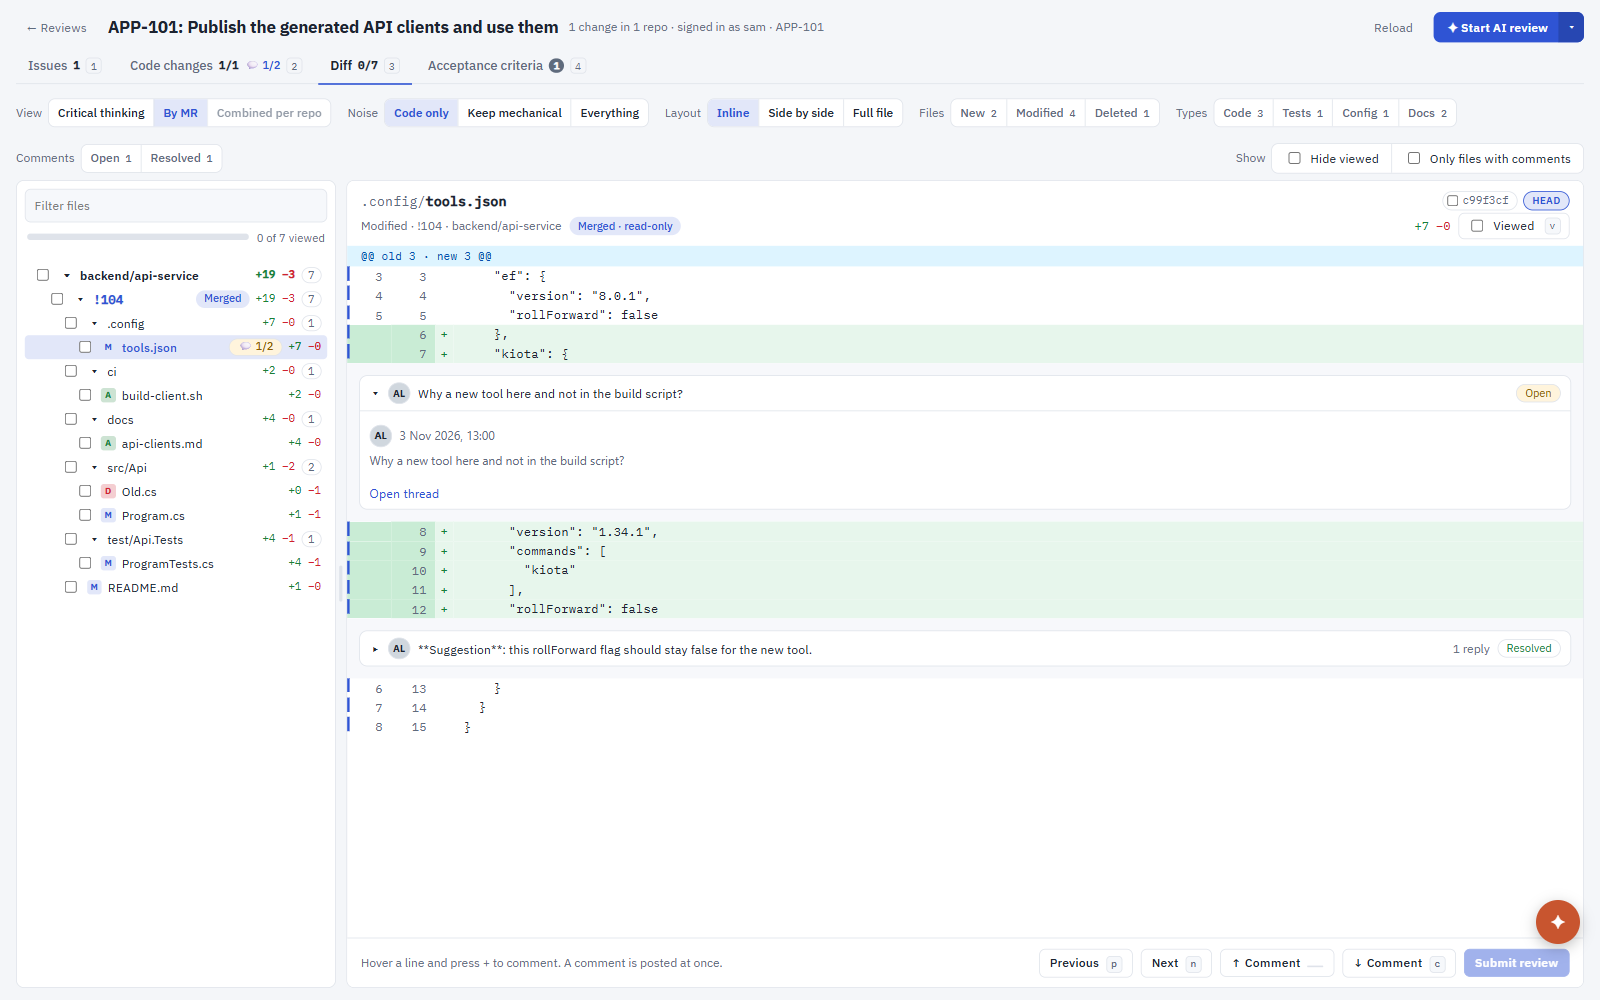
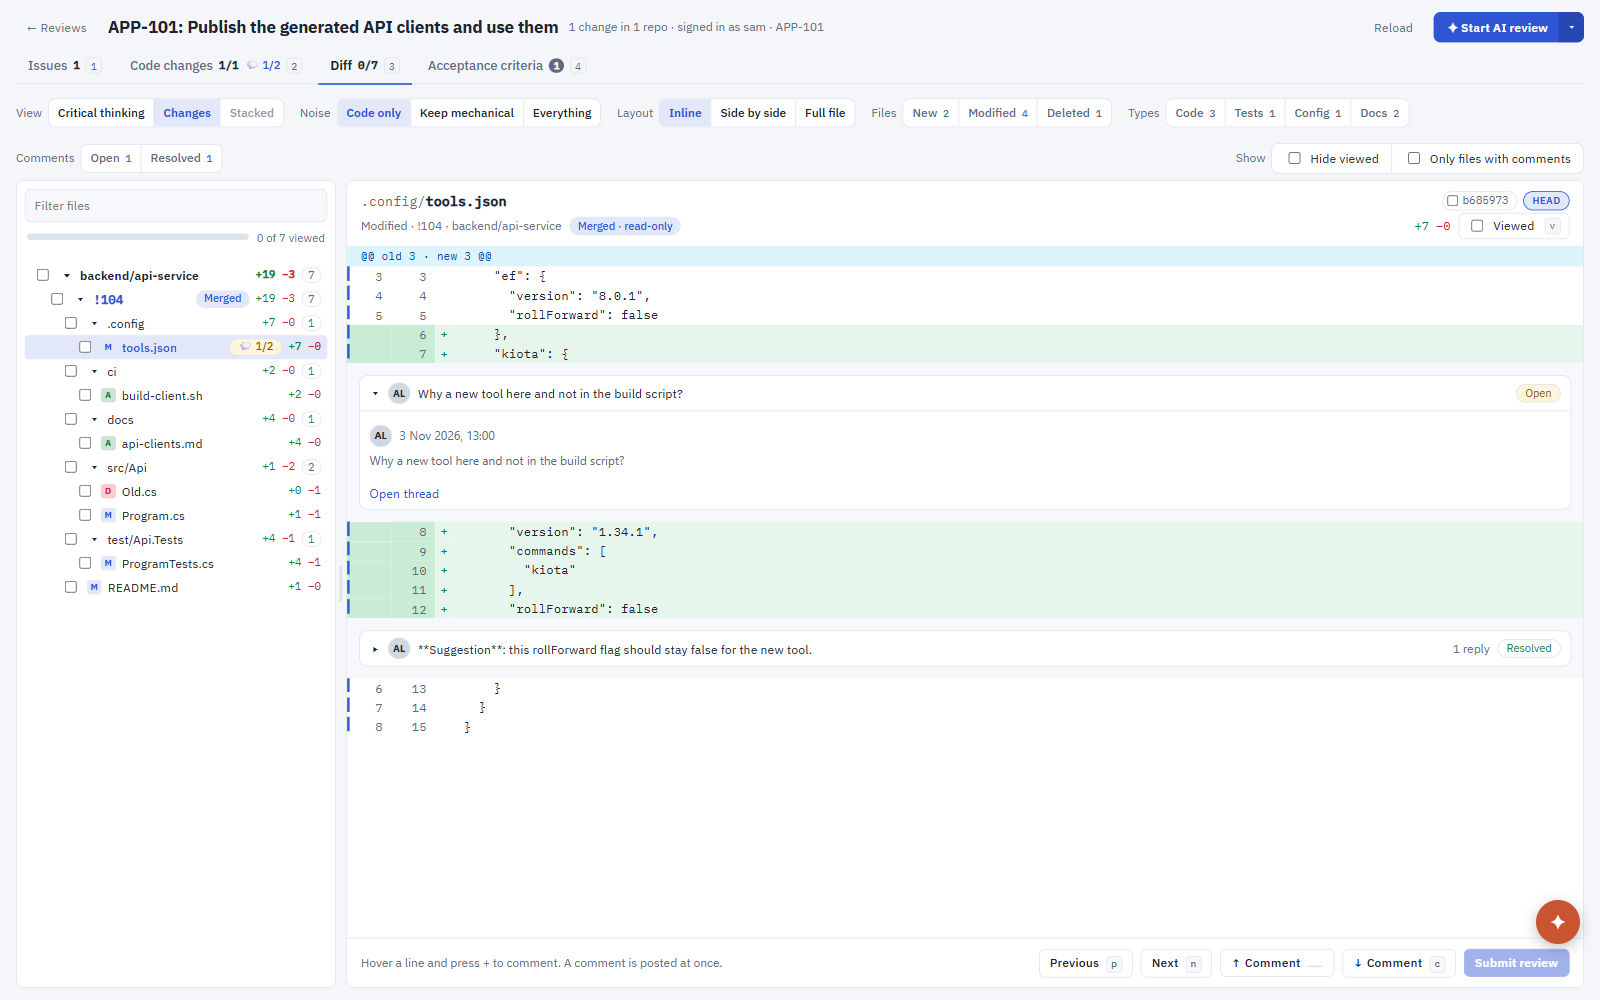
feat: rename the Diff views to Linear and Stacked
- By MR is now Linear, and Combined per repo is now Stacked
- retake the screenshots

Claude-Session: https://claude.ai/code/session_01Lfs47fBhmnj7HXEQgeaan6

Changed region(s): [[0.0938, 0.093, 0.9062, 0.124], [0.9062, 0.186, 0.9375, 0.217]]

diff --git a/src/renderer/features/DiffTab.tsx b/src/renderer/features/DiffTab.tsx
@@ -50,9 +50,9 @@ interface Entry {
   groupTip: string
   file: FileObject
   scope: string
-  /** The change that owns the file in By MR. Null in Combined, where each line has its own target. */
+  /** The change that owns the file in Linear. Null in Stacked, where each line has its own target. */
   mrKey: string | null
-  /** The changes of the part, in Combined. */
+  /** The changes of the part, in Stacked. */
   partMrs: string[]
   /** The change and the commit whose code the line chat reads. */
   chatMr: string
@@ -122,7 +122,7 @@ function entriesOf(result: BuildResult, view: ViewName): Entry[] {
       groupLabel: `Part ${n} · ${label}`,
       groupTip: p.reason ?? 'The first part',
       file,
-      scope: `combined · ${p.repo} · ${nums.join(', ')}`,
+      scope: `stacked · ${p.repo} · ${nums.join(', ')}`,
       mrKey: null,
       partMrs: p.mrs,
       chatMr: p.mrs[0],
@@ -253,7 +253,7 @@ export function DiffTab(props: { visible?: (mrKey: string) => boolean }): React.
   useEffect(() => save('codediff:view', view), [view])
   useEffect(() => save('codediff:noise', level), [level])
 
-  // The flow view shows no tree. Leaving it returns to the By MR view, and a flow that went away does the same.
+  // The flow view shows no tree. Leaving it returns to the Linear view, and a flow that went away does the same.
   useEffect(() => {
     if (view === 'flow' && !r.flow.flow) setView('mr')
   }, [view, r.flow.flow])
@@ -326,7 +326,7 @@ export function DiffTab(props: { visible?: (mrKey: string) => boolean }): React.
     // eslint-disable-next-line react-hooks/exhaustive-deps
   }, [current?.id])
 
-  // An Open card: switch to By MR, show the file and scroll to the line. A hidden line switches the noise level to Everything.
+  // An Open card: switch to Linear, show the file and scroll to the line. A hidden line switches the noise level to Everything.
   useEffect(() => {
     const n = r.nav
     if (!n) return
@@ -590,7 +590,7 @@ export function DiffTab(props: { visible?: (mrKey: string) => boolean }): React.
 
   const partsBadge = result.combined.length > 0 && new Set(result.combined.map((p) => p.repo)).size < result.combined.length
   const combinedTip = !hasCombined
-    ? 'Combined needs 2+ MRs in the same repo'
+    ? 'Stacked needs 2+ MRs in the same repo'
     : [...result.combined.filter((p) => p.reason).map((p) => `${p.repo}: a part ${p.reason}`), 'Each part combines the MRs that merge cleanly in order.'].join(
         '\n'
       )
@@ -613,10 +613,10 @@ export function DiffTab(props: { visible?: (mrKey: string) => boolean }): React.
               {r.flow.pending && <span className="spin">◐ </span>}Critical thinking
             </button>
             <button className={view === 'mr' ? 'on' : ''} onClick={() => setView('mr')}>
-              By MR
+              Linear
             </button>
             <button className={view === 'combined' ? 'on' : ''} disabled={!hasCombined} title={combinedTip} onClick={() => setView('combined')}>
-              Combined per repo
+              Stacked
               {partsBadge && <span className="parts"> {result.combined.length} parts</span>}
             </button>
           </span>

diff --git a/tests/e2e/tree-rows.spec.ts b/tests/e2e/tree-rows.spec.ts
@@ -219,25 +219,25 @@ test.describe.serial('the rows of the file tree', () => {
 
   test('in both views, at the default and at the narrowest width, every row has its name left, its numbers at the right edge and fits its box', async () => {
     // Arrange: the default width first, because the narrowest width stays once it is set
-    await page.getByRole('button', { name: 'By MR' }).click()
+    await page.getByRole('button', { name: 'Linear', exact: true }).click()
     await openAll(page)
 
-    // Act and assert: the default width, By MR then Combined
-    await expectRowsFit(page, 'By MR view at the default width')
-    await page.getByRole('button', { name: 'Combined per repo' }).click()
+    // Act and assert: the default width, Linear then Stacked
+    await expectRowsFit(page, 'Linear view at the default width')
+    await page.getByRole('button', { name: 'Stacked' }).click()
     await openAll(page)
-    await expectRowsFit(page, 'Combined per repo view at the default width')
+    await expectRowsFit(page, 'Stacked view at the default width')
     // the MR name is not cut at a wide pane
     const group = tree(page).locator('.trow.group', { hasText: '!12' })
     expect(await group.locator('.tname').evaluate((e) => e.scrollWidth - e.clientWidth), 'the label is cut at a wide pane').toBeLessThanOrEqual(0)
 
-    // Act and assert: the narrowest width, Combined then By MR
+    // Act and assert: the narrowest width, Stacked then Linear
     await narrowest(page)
-    await expectRowsFit(page, 'Combined per repo view at the narrowest width')
+    await expectRowsFit(page, 'Stacked view at the narrowest width')
     // the MR name shrinks with an ellipsis before the numbers
     expect(await group.locator('.tname').evaluate((e) => e.clientWidth), 'the label has no room at all').toBeGreaterThan(20)
-    await page.getByRole('button', { name: 'By MR' }).click()
+    await page.getByRole('button', { name: 'Linear', exact: true }).click()
     await openAll(page)
-    await expectRowsFit(page, 'By MR view at the narrowest width')
+    await expectRowsFit(page, 'Linear view at the narrowest width')
   })
 })

diff --git a/tests/e2e/phase4.spec.ts b/tests/e2e/phase4.spec.ts
@@ -150,27 +150,27 @@ test('combines changes to different files, and splits parts when two changes con
     ...mr(14, s.shas.base, s.shas.mr3, '2026-01-03T00:00:00Z')
   }
   const { app, page } = await open(s, [12, 13, 14], fx)
-  const combined = page.getByRole('button', { name: /^Combined/ })
+  const combined = page.getByRole('button', { name: /^Stacked/ })
   await expect(combined).toBeEnabled()
   await expect(combined).toContainText('2 parts')
   await expect(combined).toHaveAttribute('title', /team\/backend\/x|backend\/x: a part starts at !14, which conflicts with the part before it \(!12, !13\)/)
   await combined.click()
   await page.getByTestId('file-docs/other.txt').click()
-  await expect(page.getByTestId('file-scope')).toContainText('combined · backend/x · !12, !13')
+  await expect(page.getByTestId('file-scope')).toContainText('stacked · backend/x · !12, !13')
   // the second part is the conflicting change on its own
   await expect(page.getByText('Part 2 · !14')).toBeVisible()
   await expect(page.getByText('Part 1 · !12, !13')).toBeVisible()
   // by MR again: the same path stays open when it exists
-  await page.getByRole('button', { name: 'By MR' }).click()
+  await page.getByRole('button', { name: 'Linear', exact: true }).click()
   await expect(page.getByTestId('file-scope')).toContainText('!13 · backend/x')
   await app.close()
 })
 
-test('Combined is disabled with one change in the repo', async () => {
+test('Stacked is disabled with one change in the repo', async () => {
   const s = setup({ mr1: { 'src/a.txt': 'one\nTWO\nthree\n' } }, base)
   const { app, page } = await open(s, [12], mr(12, s.shas.base, s.shas.mr1, '2026-01-01T00:00:00Z'))
-  const combined = page.getByRole('button', { name: /^Combined/ })
+  const combined = page.getByRole('button', { name: /^Stacked/ })
   await expect(combined).toBeDisabled()
-  await expect(combined).toHaveAttribute('title', 'Combined needs 2+ MRs in the same repo')
+  await expect(combined).toHaveAttribute('title', 'Stacked needs 2+ MRs in the same repo')
   await app.close()
 })

diff --git a/tests/e2e/phase8.spec.ts b/tests/e2e/phase8.spec.ts
@@ -126,7 +126,7 @@ test('the flow arrives without a reload and shows the chain, the reading order a
   await expect(page.getByTestId('flow-review')).toContainText('!12 a.txt:2')
   await expect(page.getByTestId('flow-review')).toContainText('Check the new value.')
   await expect(page.getByTestId('flow-skip')).toContainText('Documentation')
-  // a box opens its file at the first line, in the By MR view
+  // a box opens its file at the first line, in the Linear view
   await page
     .getByTestId('step-s1')
     .getByRole('button', { name: /a\.txt:2/ })

diff --git a/tests/e2e/screenshots.spec.ts b/tests/e2e/screenshots.spec.ts
@@ -255,7 +255,7 @@ test('screenshots of the main screens', async () => {
     .getByTestId('view-flow')
     .click()
     .catch(() => undefined)
-  await page.getByRole('button', { name: 'By MR' }).click()
+  await page.getByRole('button', { name: 'Linear', exact: true }).click()
   await page.getByTestId('layout-side').click()
   await shot('side-by-side')
   await page.getByTestId('layout-full').click()

diff --git a/docs/FEATURES.md b/docs/FEATURES.md
@@ -55,7 +55,7 @@ The table has one row for each change with its number, stack position, title and
 
 ### 6.1 The toolbar
 
-- **View**: Critical thinking, By MR, or Combined per repo. Combined shows the files of all the changes of one repo as one diff, when they merge cleanly.
+- **View**: Critical thinking, Linear, or Stacked. Linear shows the files of each change by itself. Stacked shows the files of all the changes of one repo as one diff, when they merge cleanly.
 - **Noise**: Code only, Keep mechanical, or Everything. Code only hides blank lines, white space, imports, comments and mechanical modifiers. A file with no change at that level is hidden, and the tree says how many.
 - **Layout**: Inline, Side by side, or Full file.
 - **Files**: New, Modified and Deleted, each with its count.
